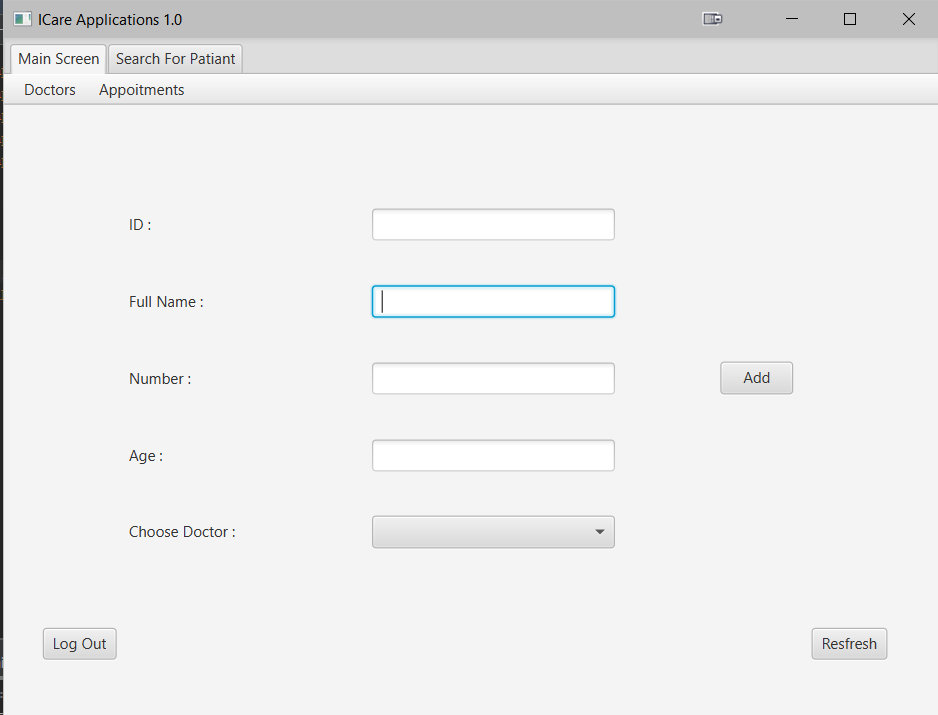
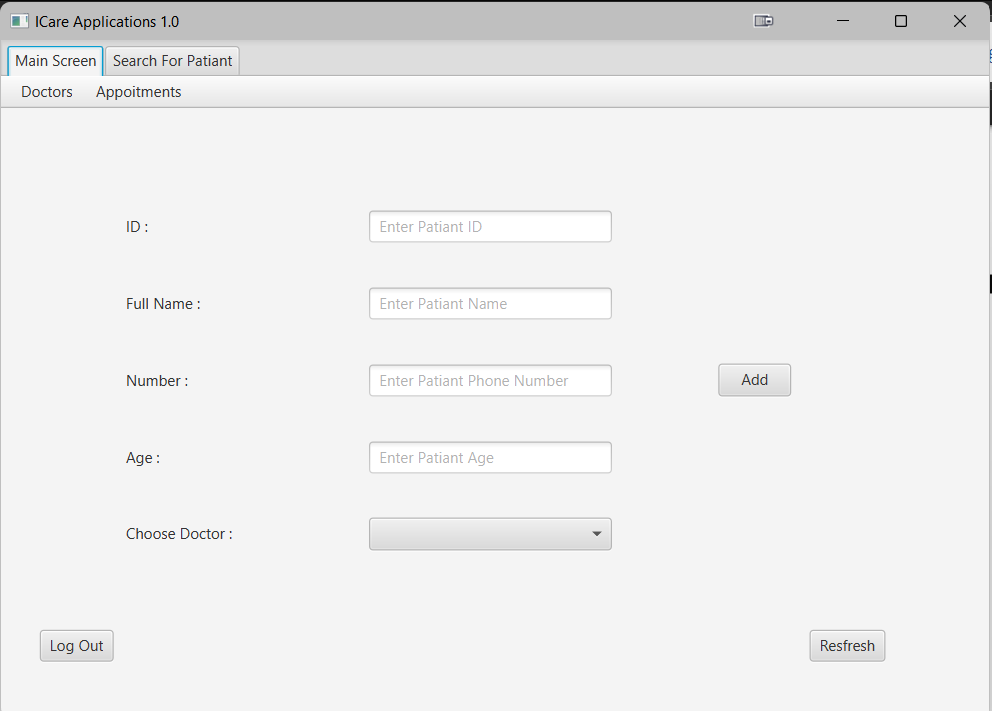
Fixed up all the screens so that when their in full screen mode they adjust , also added some hints in the receptionists screen textboxes

diff --git a/ClinicProjectSrc/src/AppCode/ReceptionScreenController.java b/ClinicProjectSrc/src/AppCode/ReceptionScreenController.java
@@ -262,14 +262,14 @@ public class ReceptionScreenController implements Initializable {
             Patiant result = patiance.getPatiant(Integer.parseInt(searchID.getText()));
             if (result != null) {
                 errorLable.setTextFill(Color.BLUE);
-                errorLable.setText("Patiant Found Succfully");
+                errorLable.setText("Patiant Found Successfully");
                 foundName.setText(result.getFullName());
                 foundAge.setText(String.valueOf(result.getAge()));
                 foundNumber.setText(String.valueOf(result.getNumber()));
                 clear();
 
             } else {
-                errorLable.setText("Patiant Wasnt Found");
+                errorLable.setText("Patiant Wasn't Found");
                 clear();
 
             }
